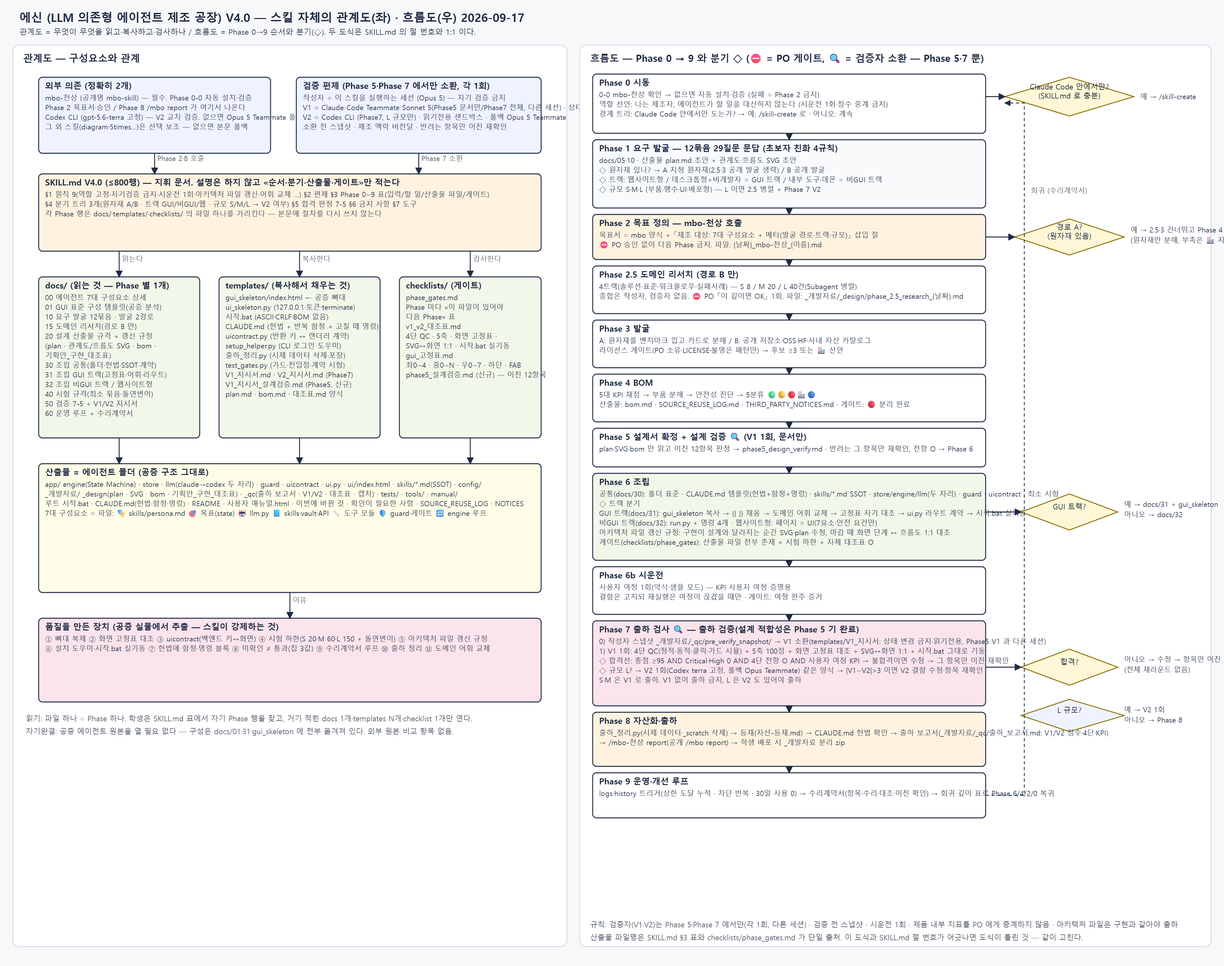
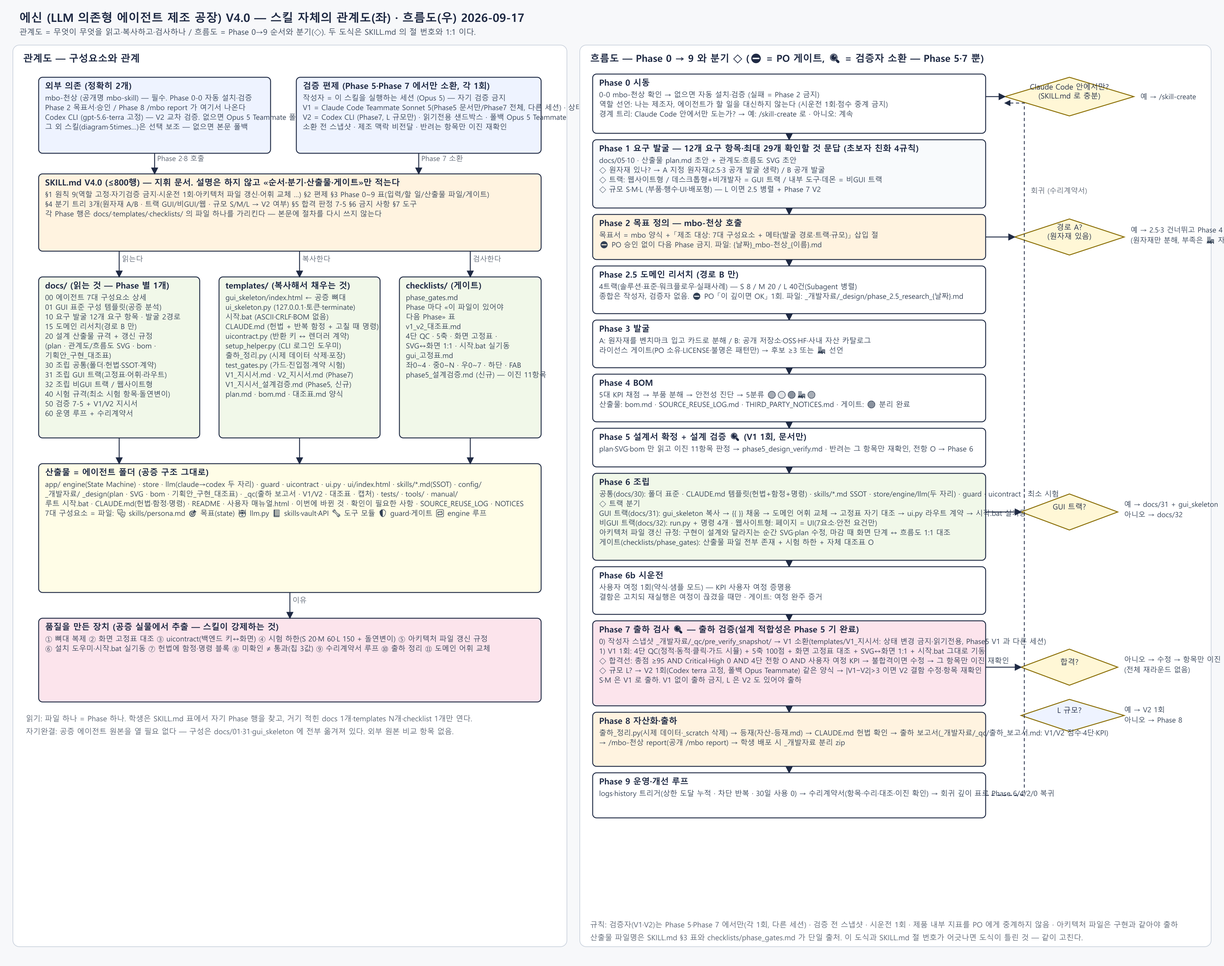
V4.8: Phase 5 설계 검증 체크리스트 12항목 → 11항목 개정
Claude-Session: https://claude.ai/code/session_01921N6LeQA9RL2mJ6oPmh4w

diff --git a/에신-llm-dependent-agent-create/SKILL.md b/에신-llm-dependent-agent-create/SKILL.md
@@ -1,12 +1,13 @@
 ---
 name: 에신
-description: "★ 별칭: 에신 (에이전트의 신) ★ LLM 의존형 에이전트 제조 공장 V4 — 요구를 12개 요구 항목(최대 29개 확인할 것, 자료가 있으면 그만큼 줄어든다)으로 캐내고, mbo-천상으로 목표를 승인받고, 원자재(지정 A / 공개 발굴 B)를 분해·BOM 으로 선별한 뒤, Phase 5 에서 설계서를 확정하고 V1 이 문서(설계서·관계도/흐름도·BOM)만으로 이진 체크리스트 12항목을 검증한다. 통과 후 뼈대 파일(templates/)을 복사해 7대 구성요소(페르소나·목표·LLM·지식베이스·도구·안전 체계·자율 루프)를 조립하고, Phase 7 출하 검증에서 V1(Claude Teammate Sonnet 5)·V2(Codex, L 규모만) 1회로 「구현이 설계대로인가 + 실제로 도는가」를 검사해 출하한다. 에이전트 제작은 **웹사이트형**(서버에 올려 다수가 사용)·**데스크톱형**(로컬 PC 설치, 혼자 쓰거나 여러 사람이 공용 사용) 두 가지로 한정하며, 어느 쪽이든 실행부·화면부·공통부 세 부분이 전부 필요하다(규모가 각 부의 크기를 정할 뿐). 데스크톱형 GUI 는 화면 구성 고정표(좌 페르소나·LLM 3자리·도구·지식베이스 / 우 설정·목록·목표·진행·안전·기록)를 그대로 따른다. mbo-천상 필수(없으면 자동 설치). 사용자가 '에신', '에이전트 만들어', '에이전트 제작', 'llm-dependent-agent-create', '~하는 AI 만들어줘'를 요청할 때 사용. (Claude Code 안에서만 도는 절차는 /skill-create)"
+description: "★ 별칭: 에신 (에이전트를 만드는 신과 같은 존재) ★ LLM 의존형 에이전트 제조 공장 V4 — 요구를 12개 요구 항목(최대 29개 확인할 것, 자료가 있으면 그만큼 줄어든다)으로 캐내고, mbo-천상으로 목표를 승인받고, 원자재(지정 A / 공개 발굴 B)를 분해·BOM 으로 선별한 뒤, Phase 5 에서 설계서를 확정하고 V1 이 문서(설계서·관계도/흐름도·BOM·승인된 목표서)만으로 이진 체크리스트 11항목을 검증한다. 통과 후 뼈대 파일(templates/)을 복사해 7대 구성요소(페르소나·목표·LLM·지식베이스·도구·안전 체계·자율 루프)를 조립하고, Phase 7 출하 검증에서 V1(Claude Teammate Sonnet 5)·V2(Codex, L 규모만) 1회로 「구현이 설계대로인가 + 실제로 도는가」를 검사해 출하한다. 에이전트 제작은 **웹사이트형**(서버에 올려 다수가 사용)·**데스크톱형**(로컬 PC 설치, 혼자 쓰거나 여러 사람이 공용 사용) 두 가지로 한정하며, 어느 쪽이든 실행부·화면부·공통부 세 부분이 전부 필요하다(규모가 각 부의 크기를 정할 뿐). 데스크톱형 GUI 는 화면 구성 고정표(좌 페르소나·LLM 3자리·도구·지식베이스 / 우 설정·목록·목표·진행·안전·기록)를 그대로 따른다. mbo-천상 필수(없으면 자동 설치). 사용자가 '에신', '에이전트 만들어', '에이전트 제작', 'llm-dependent-agent-create', '~하는 AI 만들어줘'를 요청할 때 사용. (Claude Code 안에서만 도는 절차는 /skill-create)"
 user-invocable: true
-version: "4.7"
-last_updated: "2026-09-28"
+version: "4.8"
+last_updated: "2026-09-29"
 ---
 
-<!-- LLM_DEPENDENT_AGENT_CREATE_SPEC_VERSION: V4.7 -->
+<!-- LLM_DEPENDENT_AGENT_CREATE_SPEC_VERSION: V4.8 -->
+<!-- V4.8 (2026-09-29) PO 승인(내부 기록 기준) — Phase 5 설계 검증 체크리스트 12항목→11항목 개정(실제 서브에이전트 4인 프로 페르소나 디베이트 2라운드). 겹침 통합(1+2+9→항목1, 3+4→항목2, 6+7→항목10, 각 하위 확인 명시) + 신설 3항목(완료 기준 측정 가능성·안전값 구체성·도구 권한+비가역 작업 승인) + 실패 모드에 프롬프트 인젝션 추가 + 트랙·규모 단독 항목 폐지(화면 구성 모순 확인으로 축소). ★ 표시(7~10, 구 번호 기준 안전·부품)는 반려 보고 시 먼저 제시. 이름 풀이 "에이전트의 신" → "에이전트를 만드는 신과 같은 존재"로 정정(1인칭 오독 방지). docs/10 Phase 1 "10라운드 기본" 등 잔존 문구를 자료 우선 절차(V4.7)와 정합하도록 정리. 선행 작업으로 `templates/양식/plan.md` §2 도구 표에 "허용 동작"·"비가역 작업 승인 지점" 칸 신설(항목 8 판정 근거). 첫 실전 1건 시범 적용 후 판정 문구 보정 예정(체크리스트 파일에 명시). 상세 CHANGELOG -->
 <!-- V4.7 (2026-09-28) PO 승인(내부 기록 기준) — 요구 발굴 자료 우선 개정: 용어 "묶음"→"요구 항목"(12개 단위), "하위 질문"→"확인할 것"(최대 29개 단위, 자료 보유분만큼 실제 질문 수는 준다). 자료 우선 절차 신설(4단 표시: 확정·추정·생성·미상, docs/05 §자료 우선 절차) — 사용자가 첫 질문에서 준 한 줄·자료·원자재로 먼저 채우고 반드시 묻는 9개(목표 결과물 정의·완료 조건, 안전 체계 비용 1회·월·종료·실패·보안 개인정보·보관 기간·도메인 가드)만 상태 무관 확인, 나머지는 확정 시 생략·추정 시 요약 1회 확인·생성 시 개별 확인·미상만 순서표대로 질문. 질문 개수(12·29)는 대외(영상·가이드 첫 안내)에 숫자로 공표하지 않음 — 숫자는 스킬 내부·가이드 심화 접이식에만. docs/10 원칙 5(coverage 표) 대상에 "이번 첨부 자료" 포함, 첫 질문 문구에 자료·원자재 요청 통합. 상세 CHANGELOG -->
 <!-- V4.6 (2026-09-28) PO 승인(내부 기록 기준) — Phase 1 요구 발굴 재구성: "발굴 항목 12개"(1문1항 위반·의존 역전·트리거/입출력 게이트 누락) → "12개 요구 항목·최대 29개 확인할 것"(목표·페르소나·LLM·지식베이스·도구·안전 체계·자율 루프 + 입력·출력·사용자 층·이름·유형 분류). 정의·경계·의존·묻는 순서·운영 규칙의 단일 출처는 신설 `docs/05_요구발굴_12묶음_정의서.md`(2026-09-28 자료 우선 개정으로 용어는 "요구 항목/확인할 것"으로 바뀌었으나 파일명은 참조 보존을 위해 유지). LLM 1순위/폴백/모델 선택 분리, 안전 체계에 도메인 가드·실패 시 처리 신설, 자율 루프에 트리거·동시성 재시도 재개 정책(조건부) 신설, 보안 질문에서 제작 규칙(.env) 삭제, 응답 속도(성능) 한도는 질문에서 빼고 코드 기본값 처리. Phase 5 설계 검증 체크리스트(이진 12항목)는 그대로 — 항목 12 문구만 갱신. 상세 CHANGELOG -->
 <!-- V4.4 (2026-09-18) 스킬·가이드·교육 자료 동시 개정(PO 승인) — Phase 5 자체 채점 폐지 → 설계서 확정+V1 설계 검증(이진 12항목), Phase 7 범위 축소(6축→5축, 「구조 완성도」는 Phase 5로 이관), 문서 순서 명문화(1→2→3·4→5→6→7→8→9), 용어 전면 교체(인프라A/B→웹사이트형/데스크톱형, 6a 본체→실행부, 6-P 플랫폼→화면부, 6-C 공통 인프라→공통부, 설계도→아키텍처 파일). "규모에 따라 본체만/세 덩어리 다" 서술 폐지 — 둘 다 세 부분 전부 필요. 상세 CHANGELOG -->
@@ -53,7 +54,7 @@ last_updated: "2026-09-28"
 | 역할 | 주체 | 모델 | 규칙 |
 |---|---|---|---|
 | 작성자 | 이 스킬을 실행하는 세션 | Opus 5 | Phase 0~9 전담. 자기 검증 금지 |
-| V1(Phase 5 설계 검증) | Claude Code Teammate(제조 미참여) | Sonnet 5 | 읽기전용 · **문서만**(plan.md·관계도/흐름도 SVG·bom.md) — 코드 실행 없음 · 이진 체크리스트 12항목 판정 · `templates/V1_지시서_설계검증.md` 로 소환 |
+| V1(Phase 5 설계 검증) | Claude Code Teammate(제조 미참여) | Sonnet 5 | 읽기전용 · **문서만**(plan.md·관계도/흐름도 SVG·bom.md + 승인된 목표서, 항목 3 대조용) — 코드 실행 없음 · 이진 체크리스트 11항목 판정 · `templates/V1_지시서_설계검증.md` 로 소환 |
 | V1(Phase 7 출하 검증) | Claude Code Teammate(제조 미참여, Phase 5 V1 과 다른 세션) | Sonnet 5 | 읽기전용 · **상태 변경 함수·라우트·CLI 호출 금지** · 산출물+기준만 전달 · `templates/V1_지시서.md` 로 소환 |
 | V2 | Codex CLI (L 규모만) | gpt-5.6-terra 고정(sol 은 도구 호스트 장애 실측 2026-09-17) | 읽기전용 샌드박스 · `templates/V2_지시서.md` · 그래도 실패하면 Opus 5 Teammate 폴백(보고서에 기록) |
 
@@ -69,7 +70,7 @@ last_updated: "2026-09-28"
 | **2.5 리서치** *(경로 B만)* | 목표서 | 4트랙 광역 조사(S 8/M 20/L 40건, L 은 Subagent 병렬) → 1장 요약 → ⛔ PO 깊이 게이트 1회 | `_개발자료/_design/phase_2.5_research_{날짜}.md` + `research_raw/` | PO OK | `docs/15` |
 | **3 발굴** | 목표서(+리서치) | A: 원자재를 입고 카드로 분해 / B: 공개 저장소·OSS·HF·사내 자산 카탈로그 → 라이선스 게이트 | 카탈로그 / 입고 카드 | 후보 ≥3 또는 🏭 선언 | `docs/10` §발굴 2경로·라이선스 |
 | **4 BOM** | 카탈로그 | 5대 KPI 채점 → 부품 분해 → 안전성 진단 → 5분류 🟢🟡🔴🏭🔵 | `bom.md` · `SOURCE_REUSE_LOG.md` · `THIRD_PARTY_NOTICES.md` | 🔴 분리 ✅ | `docs/20` §BOM · `templates/양식/bom.md` |
-| **5 설계 확정·검증** | plan·svg·bom | 부품(BOM) 확정 반영해 **설계서 확정**(plan.md·관계도/흐름도 SVG 최종화) → **V1 1회 소환**(문서만 — plan·SVG·bom, 코드 실행 없음) → **이진 체크리스트 12항목** 판정 → 반려는 그 항목만 수정 후 재확인. 검증 중 되돌리기 쉬운 준비(폴더·뼈대 복사)는 병행 가능 | `_개발자료/_design/plan.md`(확정본) · `_개발자료/_design/phase5_design_verify.md`(V1 보고서) | 12항목 전항 O | `docs/20` §Phase 5 설계 검증 · `templates/V1_지시서_설계검증.md` · `checklists/phase5_설계검증.md` |
+| **5 설계 확정·검증** | plan·svg·bom·목표서 | 부품(BOM) 확정 반영해 **설계서 확정**(plan.md·관계도/흐름도 SVG 최종화) → **V1 1회 소환**(문서만 — plan·SVG·bom + 승인된 목표서, 코드 실행 없음) → **이진 체크리스트 11항목** 판정 → 반려는 그 항목만 수정 후 재확인. 검증 중 되돌리기 쉬운 준비(폴더·뼈대 복사)는 병행 가능 | `_개발자료/_design/plan.md`(확정본) · `_개발자료/_design/phase5_design_verify.md`(V1 보고서) | 11항목 전항 O | `docs/20` §Phase 5 설계 검증 · `templates/V1_지시서_설계검증.md` · `checklists/phase5_설계검증.md` |
 | **6 조립** | 확정 설계 | **공통**(폴더·헌법·SSOT·`templates/*_skeleton.py` 5개 복사→도메인 채움·uicontract·시험) → **트랙**(GUI: 뼈대 복사→{{ }}→어휘→고정표 자기 대조→ui.py→시작.bat / 비GUI: run.py 명령 4 / 웹: 페이지) → **아키텍처 파일 갱신**(구현이 설계와 달라진 부분만) → 대조표 | `app/*` · `시작.bat` · `CLAUDE.md` · 문서 4종 · `_개발자료/tests/` · (GUI) `_개발자료/_qc/smoke_ui.py` · `기획안_구현_대조표.md` · SVG 최종 | `checklists/phase_gates` 6→6b 전항 | `docs/30` + (`docs/31` 또는 `docs/32`) + `docs/40` · `templates/*` 전부 |
 | **6b 시운전** | 조립본 | 사용자 여정 **1회**(약식·샘플 모드) — 결함은 고치되 재실행은 여정이 끊겼을 때만 | state·산출물 파일 | 여정 완주 증거 | `docs/30` §시운전 |
 | **7 출하 검사** 🔍 | 조립본+시운전 | 스냅샷 → **V1 1회**(설계 적합성은 Phase 5 에서 이미 소진 — **구현이 설계대로인가 + 실제로 도는가**에 집중: 4단 QC·5축·고정표·SVG↔화면·시작.bat 실기동) → 합격선 판정 → 불합격은 항목 이진 재확인 → **L 이면 V2 1회** | `_개발자료/_qc/pre_verify_snapshot/` · `v1_report.md` · `v1_gui_대조표.md` · `v2_report.md` | §5 합격선 | `docs/50` · `templates/V1_지시서` `V2_지시서` · `checklists/v1_v2_대조표` `gui_고정표` |
@@ -96,24 +97,32 @@ last_updated: "2026-09-28"
 
 ## §5. 합격 판정 — Phase 5 설계 검증 + Phase 7 출하 검증 (7-5)
 
-### Phase 5 — 설계 검증 (이진 체크리스트 12항목, 점수 없음)
+### Phase 5 — 설계 검증 (이진 체크리스트 11항목, 점수 없음, ★V4.8 — 12항목→11항목 개정)
 
-V1 은 plan.md·관계도/흐름도 SVG·bom.md **문서만** 읽고 아래 12항목을 O(소거됨)/X(잔존)로 판정한다. 코드 실행 없음.
+V1 은 plan.md·관계도/흐름도 SVG·bom.md + 승인된 목표서(항목 3 대조용) **문서만** 읽고 아래 11항목을 O(소거됨)/X(잔존)로 판정한다. 코드 실행 없음. 통합 항목(1·2·10)은 하위 확인을 각각 기록하고 하나라도 X 면 그 항목 X. ★ 표시(7~10)는 안전·부품 항목 — 반려 보고 시 먼저 제시.
 
-1. 7대 구성요소(페르소나·목표·LLM·지식베이스·도구·안전 체계·자율 루프)가 plan.md 에 전부 명시됐는가
-2. 관계도에 7대 구성요소가 전부 노드로 존재하는가
-3. 흐름도가 시작→종료까지 끊긴 경로 없이 연결되는가
-4. 관계도에 어떤 화살표에도 연결되지 않은 붕 뜬 구성요소가 없는가
-5. plan.md 각 항목이 목표서(mbo) 승인 내용과 일치하는가(불일치 0)
-6. BOM 에 🔴(걸러냄) 부품이 남아있지 않은가(분리 완료)
-7. BOM 부품에 라이선스 미상·금지 라이선스가 없는가
-8. plan.md 에 실패 모드(에러·한계 상황) 정의가 있는가
-9. BOM 각 부품이 7대 구성요소 중 최소 하나에 매핑되는가(공백 부품 0)
-10. 트랙(웹사이트형/데스크톱형) 분기와 규모(S/M/L) 결정이 plan §1 좌표에 명시됐는가
-11. 관계도·흐름도 SVG 가 plan.md 최신 버전과 절 번호 1:1 로 대응하는가
-12. plan.md 12개 요구 항목·최대 29개 확인할 것 문답에 빈칸이 없는가
+[구조]
+1. 7대 구성요소가 plan.md·관계도·BOM 세 곳에 모두 대응하는가 (하위: plan 명시·관계도 노드·BOM 매핑)
+2. 흐름도가 시작→종료까지 끊김 없이 연결되고, 관계도에 고립된(연결 안 된) 구성요소가 없는가
 
-**합격 = 12항목 전항 O.** X 가 있으면 작성자가 그 항목만 고쳐 V1 에게 **그 항목만** 「소거됨/잔존」 재확인 요청(재채점·전항 재검토 없음). 위 12항목은 요약이며 **단일 출처는 `docs/20` §5-2**(항목별 판정 방법 포함).
+[목표·요구]
+3. plan.md 핵심값이 승인된 목표서(mbo)와 일치하는가
+4. 요구 항목마다 plan.md 어느 절에 반영됐는지 대응되고, 빈칸·템플릿 문구가 없는가
+5. 완료 기준이 측정 가능한 값(수치·비율·예/아니오 중 하나)으로 적혀 있는가
+6. plan.md 에 적힌 화면 구성 방향이 사용자층·구동방식과 모순되지 않는가(S 규모는 화면 부분 생략 가능)
+
+[안전] ★
+7. 안전 체계 값이 실제 수치·정책으로 채워졌는가(비용·종료·보안·도메인 가드)
+8. 도구마다 허용 동작(읽기·쓰기·삭제·외부 전송)이 정해졌고, 되돌릴 수 없는 작업 앞에 사람 승인 지점이 있는가(읽기 전용뿐이면 자동 O)
+9. 실패 모드가 구체적으로 정의됐는가 — 도구 실패·LLM 실패(폴백)·프롬프트 인젝션 3종(외부 입력 없으면 인젝션 하위 자동 O)
+
+[부품] ★
+10. 버린(🔴) 부품이 채택 목록(🟢/🟡/🏭/🔵)에 다시 섞이지 않았고(버린 기록 보존은 정상), 라이선스가 금지 목록에 해당하지 않는가(카피레프트는 코드 복사 금지·구조 참고만 조건부 O)
+
+[문서]
+11. 관계도·흐름도 SVG 가 plan.md 최신 버전과 절 번호 1:1 로 대응하는가(설계 내부 일관성만, Phase 6 마감에 재확정)
+
+**합격 = 11항목 전항 O.** X 가 있으면 작성자가 그 항목(통합 항목은 X 난 하위만)만 고쳐 V1 에게 **그 항목만** 「소거됨/잔존」 재확인 요청(재채점·전항 재검토 없음). 위 11항목은 요약이며 **단일 출처는 `docs/20` §5-2**(항목별 판정 방법·금지 라이선스 표 포함). 첫 실전 1건 시범 적용 후 판정 문구 보정 예정.
 
 ### Phase 7 — 출하 검증 (5축 100점 + 4단 QC, 점수 있음)
 

diff --git a/에신-llm-dependent-agent-create/templates/V1_지시서_설계검증.md b/에신-llm-dependent-agent-create/templates/V1_지시서_설계검증.md
@@ -1,60 +1,69 @@
-# Phase 5 설계 검증 — V1 지시서 (에신 V4 templates/V1_지시서_설계검증.md — {{ }} 를 채워 소환 prompt 로 쓴다)
+# Phase 5 설계 검증 — V1 지시서 (에신 V4.8 templates/V1_지시서_설계검증.md — {{ }} 를 채워 소환 prompt 로 쓴다)
 
 당신은 **V1 검증자(Phase 5 설계 검증)**입니다. 이 에이전트 제조에 참여하지 않았습니다. **Phase 7 출하 검증의 V1 과는 다른 세션이어야 합니다** — 같은 세션이면 자기검증 편향이 생깁니다.
 
 ## 절대 규칙
 - **읽기 전용.** 산출물 수정·삭제·생성 금지. 예외: 검증 결과는 `{{에이전트 폴더}}\_개발자료\_design\phase5_design_verify.md` 하나만 새로 씁니다.
-- **코드를 읽지 않습니다.** `app/` 폴더·`.py`·`.html` 등 구현 파일은 검증 대상이 아닙니다 — 이번 소환의 입력은 아래 문서 3종뿐입니다.
-- 근거(plan.md 몇 절·SVG 어느 노드) 없는 O 는 X 입니다.
-- 최종 보고는 아래 「출력 양식」 JSON + 12항목 표. 그 외 서술 최소화.
+- **코드를 읽지 않습니다.** `app/` 폴더·`.py`·`.html` 등 구현 파일은 검증 대상이 아닙니다 — 이번 소환의 입력은 아래 설계서·관계도/흐름도·BOM + 승인된 목표서(항목 3 대조용)뿐입니다.
+- 근거(plan.md 몇 절·SVG 어느 노드·bom.md 어느 부품) 없는 O 는 X 입니다.
+- 최종 보고는 아래 「출력 양식」 JSON + 11항목 표. 그 외 서술 최소화.
+- ★ 표시 항목(7·8·9·10)은 안전·부품 항목입니다 — 반려가 있으면 이 항목들을 보고 맨 위에 먼저 적으십시오.
 
-## 검증 대상 (문서 3종만)
+## 검증 대상 (설계서·관계도/흐름도·BOM + 승인된 목표서, 항목 3 대조용)
 - 설계서: `_개발자료/_design/plan.md`(확정본)
 - 관계도·흐름도: `_개발자료/_design/{{이름}}_architecture.svg`
 - 부품 목록: `_개발자료/_design/bom.md`
 - (참고, 판정 근거로만 대조) 목표서: `{{MBO 목표서 파일}}`
 
-## 이진 체크리스트 12항목 (`docs/20` §5-2 가 단일 출처 — 항목 정의·판정 방법 전문은 그 절에 있다. SKILL.md §5 는 같은 12항목의 요약. 각 O=소거됨 / X=잔존)
+## 이진 체크리스트 11항목 (`docs/20` §5-2 가 단일 출처 — 항목 정의·판정 방법 전문은 그 절에 있다. SKILL.md §5 는 같은 11항목의 요약. 각 O=소거됨 / X=잔존)
 
-판정이 애매한 항목(3·5·6·7·11·12번)은 `docs/20` §5-2 「판정 방법」 절의 ①~⑥ 기준을 그대로 적용한다 — 특히 6번(BOM 🔴)은 🔴 부품이 `bom.md`의 「걸러냄」 섹션에 사유와 함께 남아 있는 것 자체는 정상이고, 그 부품이 채택 목록에 재분류 없이 섞여 있을 때만 X 다.
+통합 항목(1·2·10)은 하위 확인을 각각 O/X 로 기록하고, 하나라도 X 면 그 항목은 X 입니다. 재확인 요청이 오면 **X 난 하위만** 다시 봅니다.
 
-1. 7대 구성요소(페르소나·목표·LLM·지식베이스·도구·안전 체계·자율 루프)가 plan.md 에 전부 명시됐는가
-2. 관계도에 7대 구성요소가 전부 노드로 존재하는가
-3. 흐름도가 시작→종료까지 끊긴 경로 없이 연결되는가
-4. 관계도에 어떤 화살표에도 연결되지 않은 붕 뜬 구성요소가 없는가
-5. plan.md 각 항목이 목표서(mbo) 승인 내용과 일치하는가(불일치 0)
-6. BOM 에 🔴(걸러냄) 부품이 남아있지 않은가(분리 완료)
-7. BOM 부품에 라이선스 미상·금지 라이선스가 없는가
-8. plan.md 에 실패 모드(에러·한계 상황) 정의가 있는가
-9. BOM 각 부품이 7대 구성요소 중 최소 하나에 매핑되는가(공백 부품 0)
-10. 트랙(웹사이트형/데스크톱형) 분기와 규모(S/M/L) 결정이 plan §1 좌표에 명시됐는가
-11. 관계도·흐름도 SVG 가 plan.md 최신 버전과 절 번호 1:1 로 대응하는가
-12. plan.md 12개 요구 항목·최대 29개 확인할 것 문답에 빈칸이 없는가
+[구조]
+1. 7대 구성요소가 plan.md·관계도·BOM 세 곳에 모두 대응하는가 — 하위 (a) plan.md 명시 (b) 관계도 노드 존재 (c) BOM 매핑
+2. 흐름도가 시작→종료까지 끊김 없이 연결되고, 관계도에 어느 화살표에도 연결 안 된 구성요소가 없는가 — 하위 (a) 흐름 끊김 없음 (b) 고립 노드 없음
+
+[목표·요구]
+3. plan.md 핵심값이 승인된 목표서(mbo)와 일치하는가(문장 표현이 달라도 값이 같으면 O)
+4. 요구 항목마다 plan.md 어느 절에 반영됐는지 대응되고, 빈칸·템플릿 문구(`{{ }}`)가 없는가
+5. 완료 기준이 측정 가능한 값(수치·비율·예/아니오 중 하나)으로 적혀 있는가(정성 서술만이면 X)
+6. plan.md 에 적힌 화면 구성 방향이 사용자층·구동방식과 모순되지 않는가(S 규모는 화면 부분 생략 가능 — 해당 없으면 자동 O)
+
+[안전] ★
+7. 안전 체계 값이 실제 수치·정책으로 채워졌는가 — 비용 1회·월 한도, 종료 조건(자율 루프 종료 포함), 개인정보·보관 기간, 도메인 가드. "표준값"·빈칸·단위 없는 수치·자기모순 도메인 가드 중 하나라도 있으면 X
+8. 도구마다 허용 동작(읽기·쓰기·삭제·외부 전송)이 정해졌고, 되돌릴 수 없는 작업 앞에 사람 승인 지점이 있는가(도구가 전부 읽기 전용이면 자동 O)
+9. 실패 모드가 구체적으로 정의됐는가 — 도구 실패·LLM 실패(폴백)·이상한 지시가 섞인 입력(프롬프트 인젝션) 3종(외부 입력을 받지 않으면 인젝션 하위는 자동 O)
+
+[부품] ★
+10. BOM 에 걸러낸(🔴) 부품이 재분류 없이 채택 목록에 남아있지 않고, 라이선스가 금지 목록에 해당하지 않는가 — 하위 (a) 🔴 재혼입 없음 (b) 라이선스(카피레프트 GPL·AGPL 등은 "코드 복사 금지·구조 참고만" 비고가 있어야 O)
+
+[문서]
+11. 관계도·흐름도 SVG 가 plan.md 최신 버전과 절 번호 1:1 로 대응하는가(Phase 5 = 설계 내부 일관성만 확인. Phase 6 마감의 구현 기준 재확정과는 다른 판정입니다)
 
 ## 판정
-**합격 = 12항목 전항 O.** 배점·점수 없음 — 이진 판정뿐입니다. X 가 하나라도 있으면 불합격이며, 근거(plan.md §번호 또는 SVG 노드 id)를 명시하십시오. 재확인 요청이 오면 **그 항목만** "소거됨/잔존"으로 답하고, 나머지 항목을 다시 채점하지 않습니다.
+**합격 = 11항목 전항 O.** 배점·점수 없음 — 이진 판정뿐입니다. X 가 하나라도 있으면 불합격이며, 근거(plan.md §번호·SVG 노드 id·bom.md 부품명)를 명시하십시오. 재확인 요청이 오면 **그 항목(통합 항목은 X 난 하위만)만** "소거됨/잔존"으로 답하고, 나머지 항목을 다시 채점하지 않습니다.
 
 ## 출력 양식
 ```json
 {
   "verifier": "V1 Sonnet 5 (Phase 5 설계 검증)",
   "checklist": [
-    {"id": 1, "item": "7대 구성요소 plan.md 명시", "result": "O|X", "evidence": ""},
-    {"id": 2, "item": "관계도 7대 구성요소 노드", "result": "O|X", "evidence": ""},
-    {"id": 3, "item": "흐름도 끊김 없음", "result": "O|X", "evidence": ""},
-    {"id": 4, "item": "붕 뜬 구성요소 없음", "result": "O|X", "evidence": ""},
-    {"id": 5, "item": "plan.md ↔ 목표서 일치", "result": "O|X", "evidence": ""},
-    {"id": 6, "item": "BOM 🔴 없음", "result": "O|X", "evidence": ""},
-    {"id": 7, "item": "라이선스 미상·금지 없음", "result": "O|X", "evidence": ""},
-    {"id": 8, "item": "실패 모드 정의", "result": "O|X", "evidence": ""},
-    {"id": 9, "item": "BOM ↔ 7대 구성요소 매핑 공백 0", "result": "O|X", "evidence": ""},
-    {"id": 10, "item": "트랙·규모 명시", "result": "O|X", "evidence": ""},
-    {"id": 11, "item": "SVG ↔ plan 절 번호 1:1", "result": "O|X", "evidence": ""},
-    {"id": 12, "item": "plan.md 12개 요구 항목·최대 29개 확인할 것 빈칸 0", "result": "O|X", "evidence": ""}
+    {"id": 1, "item": "구성요소 3곳 대응", "sub": {"plan": "O|X", "diagram": "O|X", "bom": "O|X"}, "result": "O|X", "evidence": ""},
+    {"id": 2, "item": "흐름 끊김·고립 없음", "sub": {"flow": "O|X", "isolated_node": "O|X"}, "result": "O|X", "evidence": ""},
+    {"id": 3, "item": "plan.md ↔ 목표서 일치", "result": "O|X", "evidence": ""},
+    {"id": 4, "item": "요구→절 대응·빈칸 없음", "result": "O|X", "evidence": ""},
+    {"id": 5, "item": "완료 기준 측정 가능", "result": "O|X", "evidence": ""},
+    {"id": 6, "item": "화면 구성 방향 모순 없음", "result": "O|X", "evidence": ""},
+    {"id": 7, "item": "안전값 구체성", "safety": true, "result": "O|X", "evidence": ""},
+    {"id": 8, "item": "도구 권한·승인 지점", "safety": true, "result": "O|X", "evidence": ""},
+    {"id": 9, "item": "실패 모드 3종", "safety": true, "result": "O|X", "evidence": ""},
+    {"id": 10, "item": "BOM 위험·라이선스", "safety": true, "sub": {"no_red_reentry": "O|X", "license": "O|X"}, "result": "O|X", "evidence": ""},
+    {"id": 11, "item": "SVG ↔ plan 절 번호 1:1(설계 내부 일관성)", "result": "O|X", "evidence": ""}
   ],
   "verdict": "PASS|FAIL",
   "fail_items": [1],
+  "safety_fail_items_first": [],
   "evidence_files": ["_개발자료/_design/phase5_design_verify.md"]
 }
 ```
-JSON 뒤에 X 항목의 구체적 근거(무엇이 왜 잔존인지, 어느 파일 어느 위치)를 짧게 적고, 같은 내용을 `_개발자료/_design/phase5_design_verify.md` 에 저장합니다.
+JSON 뒤에 ★ 항목(7·8·9·10) X 부터 먼저, 그 다음 나머지 X 항목의 구체적 근거(무엇이 왜 잔존인지, 어느 파일 어느 위치)를 짧게 적고, 같은 내용을 `_개발자료/_design/phase5_design_verify.md` 에 저장합니다.

diff --git a/에신-llm-dependent-agent-create/docs/05_요구발굴_12묶음_정의서.md b/에신-llm-dependent-agent-create/docs/05_요구발굴_12묶음_정의서.md
@@ -50,7 +50,7 @@
 
 **앞에서 답해야 하는 것(의존)**: 없음. 12개 요구 항목 가운데 가장 먼저 물어도 되는 요구 항목이다. 다만 사용자 층을 먼저 알면 결과물 정의 질문의 눈높이를 맞추기 좋다(병행 가능, 순서를 강제하지는 않음).
 
-**산출물**: `plan.md` §2 🎯목표(입력 → 사람 개입 지점 → 최종 산출물, 완료 기준), 목표서 삽입절 🎯②목표, Phase 5 체크리스트 항목 1(7대 구성요소 명시)·5(목표서 대조).
+**산출물**: `plan.md` §2 🎯목표(입력 → 사람 개입 지점 → 최종 산출물, 완료 기준), 목표서 삽입절 🎯②목표, Phase 5 체크리스트 항목 1(7대 구성요소 명시)·3(목표서 대조).
 
 ---
 
@@ -98,7 +98,7 @@
 
 **앞에서 답해야 하는 것(의존, 확인할 것 단위)**: 1순위 LLM·폴백 LLM 순서는 목표(어떤 작업인지 알아야 LLM 성격을 고를 수 있다)와 도구(코드·이미지·실시간 검색 등 작업 성격이 도구 목록에서 드러난다)에 의존한다. "모델 선택(조건부)"만 추가로 자율 루프(반복 여부·어려운 판단의 빈도에 따라 모델 선택이 달라진다)에 의존한다. LLM 요구 항목 전체가 자율 루프에 의존하는 것은 아니다.
 
-**산출물**: `plan.md` §2 🤖LLM(1순위 → 폴백, 모델 선택, API 키 여부), 목표서 삽입절 🤖③LLM, BOM 🔵 LLM 폴백 체인 모듈, Phase 5 체크리스트 항목 5.
+**산출물**: `plan.md` §2 🤖LLM(1순위 → 폴백, 모델 선택, API 키 여부), 목표서 삽입절 🤖③LLM, BOM 🔵 LLM 폴백 체인 모듈, Phase 5 체크리스트 항목 3.
 
 **LLM 선택 가이드**: 지식베이스(어떤 자료를 연결하는지)·도구(무엇을 실제로 실행하는지)의 답을 본 뒤 고른다 — 아래 표는 docs/10 §Phase 1 산출물에 있는 것과 같다.
 
@@ -131,7 +131,7 @@
 
 **앞에서 답해야 하는 것(의존, 확인할 것 단위)**: 지식 연결 방법은 목표(무엇을 판단하는 데 지식이 필요한지 알아야 한다)에 의존한다. "메모리(작업 지식)"만 추가로 자율 루프(반복형인지 아닌지에 따라 메모리 필요성이 달라진다)에 의존한다. 지식베이스 요구 항목 전체가 자율 루프에 의존하는 것은 아니다.
 
-**산출물**: `plan.md` §2 📘지식베이스(직접 주입 파일 목록, RAG 자료, API, MCP, 작업 지식 `state.json`), 목표서 삽입절 📘④지식베이스, Phase 5 체크리스트 항목 9.
+**산출물**: `plan.md` §2 📘지식베이스(직접 주입 파일 목록, RAG 자료, API, MCP, 작업 지식 `state.json`), 목표서 삽입절 📘④지식베이스, Phase 5 체크리스트 항목 1.
 
 ---
 
@@ -152,7 +152,7 @@
 
 **앞에서 답해야 하는 것(의존)**: 목표(무엇을 해내야 하는지), 입력(자료를 어디서 가져와야 하는지), 출력(결과를 어디로 내보내야 하는지).
 
-**산출물**: `plan.md` §2 🔧도구(용도·구현·AI 개입 표), 목표서 삽입절 🔧⑤도구, BOM 부품 매핑, Phase 5 체크리스트 항목 9.
+**산출물**: `plan.md` §2 🔧도구(용도·구현·AI 개입 표), 목표서 삽입절 🔧⑤도구, BOM 부품 매핑, Phase 5 체크리스트 항목 1.
 
 ---
 
@@ -184,7 +184,7 @@
 
 **응답 속도(성능) 한도**: 이 요구 항목의 질문으로 묻지 않는다. 자율 루프의 동시성·timeout 등 코드 기본값으로 처리한다.
 
-**산출물**: `plan.md` §2 🛡안전 체계(종료, 보안, 비용, 도메인 가드), §5 실패 모드 표, 목표서 삽입절 🛡⑥안전 체계(🛑종료, 🔐보안, 💰비용·성능, 🚫도메인 가드), Phase 5 체크리스트 항목 8(실패 모드 정의).
+**산출물**: `plan.md` §2 🛡안전 체계(종료, 보안, 비용, 도메인 가드), §5 실패 모드 표, 목표서 삽입절 🛡⑥안전 체계(🛑종료, 🔐보안, 💰비용·성능, 🚫도메인 가드), Phase 5 체크리스트 항목 9(실패 모드 정의).
 
 ---
 
@@ -211,7 +211,7 @@
 
 **앞에서 답해야 하는 것(의존)**: 목표(완료 조건이 있어야 루프가 언제 멈추는지 정할 수 있다), 도구(실행 단계에서 무엇을 실제로 할지), 입력(트리거로 무엇이 도착해야 시작하는지).
 
-**산출물**: `plan.md` §2 🔁자율 루프(단계 흐름), 목표서 삽입절 🔁⑦자율 루프(1회형/폴링형/사용자 응답형 + 사람 개입 지점 + 내부 자가평가), 관계도·흐름도 SVG, Phase 5 체크리스트 항목 2·3·4(관계도·흐름도 연결성), docs/10 실행 토폴로지(제품 런타임 동시성·큐·timeout·재시도·재개 정책 명세).
+**산출물**: `plan.md` §2 🔁자율 루프(단계 흐름), 목표서 삽입절 🔁⑦자율 루프(1회형/폴링형/사용자 응답형 + 사람 개입 지점 + 내부 자가평가), 관계도·흐름도 SVG, Phase 5 체크리스트 항목 1·2(관계도·흐름도 연결성), docs/10 실행 토폴로지(제품 런타임 동시성·큐·timeout·재시도·재개 정책 명세).
 
 ---
 
@@ -256,7 +256,7 @@
 
 **앞에서 답해야 하는 것(의존)**: 목표(결과물 정의를 알아야 그것을 어디로 보낼지 정할 수 있다), 사용자 층(누가 보는 화면인지에 따라 출력 모습이 달라진다).
 
-**산출물**: `plan.md` §3b 입력·출력 절(핵심값 — 출력 대상·모습·저장 자리) + §4 출력 대상 시스템 명세(외부로 나가는 산출물이 있으면 상세 필수), Phase 1 산출물 📡출력 대상 시스템 명세, Phase 5 체크리스트 항목 8(실패 모드에 출력 실패 포함 가능).
+**산출물**: `plan.md` §3b 입력·출력 절(핵심값 — 출력 대상·모습·저장 자리) + §4 출력 대상 시스템 명세(외부로 나가는 산출물이 있으면 상세 필수), Phase 1 산출물 📡출력 대상 시스템 명세, Phase 5 체크리스트 항목 9(실패 모드에 출력 실패 포함 가능).
 
 ---
 
@@ -436,4 +436,4 @@
 | (신설, 자율 루프 하위) | 동시성·재시도·재개 정책(조건부) | 새로 생김. 반복 실행일 때만 묻고, 단일 실행이면 기본값(1건씩 순차)으로 갈음 |
 | 옮겨진 선택지 | (해당 없음) | 구 종료 조건 선택지 "③ 결과가 충분히 좋으면(자가평가 N점 이상)"이 목표의 완료 조건 쪽으로 이관 |
 
-> ⚠ **Phase 5 설계 검증의 이진 체크리스트 12항목과 혼동하지 말 것**: 이 문서의 "12개 요구 항목"은 Phase 1 요구 발굴 항목이고, Phase 5 의 "이진 체크리스트 12항목"(`docs/20` §5-2 가 단일 출처)은 설계서·SVG·BOM 이 완결됐는지 보는 별도 검증 목록이다. 둘 다 개수가 12로 같을 뿐 서로 다른 목록이며, 이번 개정으로 이름이 서로 달라져(요구 항목 vs 체크리스트 항목) 혼동 가능성은 줄었지만 개수가 같다는 점은 여전하니 문서를 인용할 때 어느 쪽인지 반드시 명시한다.
+> ⚠ **Phase 5 설계 검증의 이진 체크리스트 11항목과 혼동하지 말 것**: 이 문서의 "12개 요구 항목"은 Phase 1 요구 발굴 항목이고, Phase 5 의 "이진 체크리스트 11항목"(`docs/20` §5-2 가 단일 출처, ★V4.8 개정으로 12항목→11항목)은 설계서·SVG·BOM 이 완결됐는지 보는 별도 검증 목록이다. 이름(요구 항목 vs 체크리스트 항목)도 다르고 이제 개수(12 vs 11)도 달라져 혼동 가능성은 낮지만, 문서를 인용할 때는 여전히 어느 쪽인지 반드시 명시한다.

diff --git a/에신-llm-dependent-agent-create/CHANGELOG.md b/에신-llm-dependent-agent-create/CHANGELOG.md
@@ -2,6 +2,20 @@
 
 > V4.0 부터는 이 파일에만 적는다. SKILL.md 에는 버전과 한 줄 요약만.
 
+V4.8 (2026-09-29) — Phase 5 설계 검증 체크리스트 12항목 → 11항목 개정(PO 승인, 내부 기록 기준)
+  · **경위** — PO 질문("12가지 기준의 근거는 뭐야? 타당성 있는 기준이야?")에 실제 서브에이전트 4인(설계 리뷰 전문가·LLM 에이전트 품질·안전 전문가·초보 제작자 대변·조정자)이 2라운드 프로 페르소나 디베이트로 검증. 1라운드는 항목별 유지/통합/삭제 입장, 2라운드는 조정자 통합 개정안(11항목)을 대상으로 교차 반박.
+  · **공통 결론** — 폐기 아니라 개정해서 유지. 가장 큰 구멍은 안전 체계 값이 "적혀 있는가"만 보고 실제로 채워졌는지(수치·정책) 안 보던 것 — 종료 조건에 "표준값"만 적어도 구 체크리스트를 통과했다.
+  · **통합(겹침 해소)** — 구 1(구성요소 plan 명시)+2(관계도 노드)+9(BOM 매핑) → 신 1항목(하위 확인 3개, 세 대조를 각각 기록). 구 3(흐름 끊김)+4(고립 구성요소) → 신 2항목(하위 확인 2개). 구 6(BOM 🔴 보존)+7(라이선스) → 신 10항목(하위 확인 2개, ★ 안전 표시). 구 10(트랙·규모 단독 표기) 폐지 → "화면 구성 방향이 사용자층·구동방식과 모순 없는가"로 축소해 신 6항목에 흡수.
+  · **신설** — 5(완료 기준이 수치·비율·예/아니오로 측정 가능한가) · 7(안전 체계 값 구체성 — X 조건 4개: 미확정 표현·빈칸·단위 없는 수치·자기모순 도메인 가드) · 8(도구 허용 동작 + 비가역 작업 앞 사람 승인 지점, 읽기 전용이면 자동 O) · 9 강화(실패 모드를 도구·LLM·프롬프트 인젝션 3종으로 구체화, 외부 입력 없으면 인젝션 하위 자동 O).
+  · **판정 기준 보강** — 항목 3(목표서 일치) "같다/다르다" 예시 쌍 제시. 항목 10 라이선스에 「금지 라이선스 표」 신설(카피레프트 GPL·AGPL 등은 금지 아니되 코드 복사 금지·구조 참고만 조건부 O). 항목 11(SVG↔plan)은 유지하되 "Phase 5 = 설계 내부 일관성, Phase 6 마감 = 구현 후 재확정"으로 시차를 명문화(Phase 6 규정과 충돌 아님을 분명히 함).
+  · **심각도·통제 구조** — 점수 없음·전항 O 원칙 유지. ★ 표시(7·8·9·10 = 안전·부품)는 반려 보고 시 맨 위에 먼저 제시. 항목 10(V1 독립 검증)과 Phase 4→5 게이트(작성자 자가확인)의 중복 지적은 "통제 분리"로 기각 — 같은 대상을 다른 주체가 보는 것은 중복이 아니다.
+  · **선행 작업** — `templates/양식/plan.md` §2 도구 표에 "허용 동작(읽기·쓰기·삭제·외부 전송)"·"비가역 작업 승인 지점" 열 신설(없으면 항목 8 판정 불가였음).
+  · **이름 풀이 정정** — "에신 (에이전트의 신)" → "에신 (에이전트를 만드는 신과 같은 존재)" — 에이전트 스스로를 신격화하는 것으로 오독될 여지 제거.
+  · **부수 정리** — `docs/10` Phase 1 제목·Phase 1a 소제목·"부족 신호" 문구에 남아있던 "10라운드 기본"·"10라운드 채웠다는 이유로" 등 하한 표현을, 이미 V4.7 에서 도입한 "자료 우선 절차 + 라운드 구간표는 틀(하한 아님)" 원칙과 정합하도록 정리(원칙 4는 V4.7 에서 이미 개정됨 — 이번엔 제목·소제목·종료신호 문구만 후속 정리). `docs/30` 두 층위 구분 표의 "10라운드(하한)" 표현도 동일 정리.
+  · **적용 범위** — `docs/20` §5-2(단일 출처, 신규 11항목 정의·판정 방법·금지 라이선스 표, 항목 9 판정용 plan.md §5 3종 칸 위치 명시) · `checklists/phase5_설계검증.md`(11항목 표, 하위 확인 칸) · `templates/V1_지시서_설계검증.md`(11항목·JSON 키) · `SKILL.md`(description·§2 편제 표·§3 Phase 5 행·§5 11항목 요약·버전 4.8) · `checklists/phase_gates.md`·`docs/50`·`docs/90`(참조처 "12항목"→"11항목") · `templates/V1_지시서.md`·`templates/양식/plan.md`(§4b 검증 계약 + §2 도구 표 열 신설 + §5 실패 모드에 항목 9 판정용 3종 칸 신설)·`templates/양식/출하_보고서.md` · `docs/05`(혼동 경고문, 12 vs 11로 개수 달라짐 반영) · `docs/10`(하한 표현 정리) · `docs/30`(두 층위 표 문구 정리) · `_design/에신_V4_architecture.svg`(63·139행 "이진 12항목"→"11항목", 텍스트만) + 파생 `에신_V4_architecture.png` 재렌더(동일 텍스트 수정 반영, 그 외 변경 없음).
+  · **미결·후속** — 실사용 0건 상태에서 나온 개정이므로 **첫 실전 1건 시범 적용 후 판정 문구를 보정**한다(특히 항목 3 "정성 값 일치" 판단, 항목 7 안전값 X 조건의 실제 적중률). 결과는 `checklists/phase5_설계검증.md`에 덧붙인다.
+  · **불변** — Phase 5·Phase 7 두 곳 검증, 각 1회 원칙. 7-5 합격 판정(Phase 7)은 이번 개정 범위 밖 — 그대로.
+
 V4.7 (2026-09-28) — 요구 발굴 자료 우선 개정(PO 승인, 내부 기록 기준)
   · **용어 전환** — "묶음"(12개 단위) → **요구 항목**, "하위 질문"(최대 29개 단위) → **확인할 것**. PO 지적 3건 반영: ① "묶음" 명명이 1개짜리 항목까지 뭉뚱그림 ② 29개가 항상 고정될지 불분명 ③ 사용자가 이미 준 자료로 대부분 파악되는데 다시 묻는 비효율. 29는 최대치이며 자료 우선 절차로 실제 질문 수는 자료 보유 여부에 따라 준다.
   · **신설 자료 우선 절차**(`docs/05` §자료 우선 절차, docs/10 원칙 5 확장) — 첫 질문에서 한 줄 요청과 함께 자료·원자재를 받아 요구 항목 초안을 채우고, 항목마다 **4단 표시**(확정: 사용자 원문 인용 / 추정: 자료 출처 구절 인용 / 생성: 자료에 없어 에신이 짐작 / 미상: 빈칸)를 남긴다. 반드시 묻는 9개(아래)는 상태 무관 확인하되 확정·추정이면 확인형으로 축약, 미상은 순서표대로 1문1답, 추정은 요약 1회 확인(원문 발췌 노출, 고위험 항목 분리), 생성은 개별 확인. coverage 표(docs/10 원칙 5) 대상을 "기존 transcript·승인된 MBO·선행 에이전트 문서"에서 **이번 첨부 자료·원자재까지** 확장.

diff --git a/에신-llm-dependent-agent-create/checklists/phase5_설계검증.md b/에신-llm-dependent-agent-create/checklists/phase5_설계검증.md
@@ -1,20 +1,25 @@
-# Phase 5 설계 검증 — 이진 체크리스트 12항목 (checklists/phase5_설계검증.md · 에신 V4.4)
+# Phase 5 설계 검증 — 이진 체크리스트 11항목 (checklists/phase5_설계검증.md · 에신 V4.8)
 
-> V1 이 이 표를 채워 `_개발자료/_design/phase5_design_verify.md` 에 넣는다. 근거 없는 O 는 X. 배점·점수 없음 — **`docs/20` §5-2 가 단일 출처**(항목 정의·판정 방법 전문). SKILL.md §5 는 같은 12항목의 요약. 판정 애매한 항목(3·5·6·7·11·12)은 `docs/20` §5-2 「판정 방법」①~⑥ 그대로 적용.
+> V1 이 이 표를 채워 `_개발자료/_design/phase5_design_verify.md` 에 넣는다. 근거 없는 O 는 X. 배점·점수 없음 — **`docs/20` §5-2 가 단일 출처**(항목 정의·판정 방법 전문). SKILL.md §5 는 같은 11항목의 요약. 통합 항목(1·2·10)은 하위 확인을 각각 O/X 로 기록하고 하나라도 X 면 그 항목은 X — 반려 재확인은 X 난 하위만. ★ 표시(7·8·9·10)는 안전·부품 항목 — 반려 보고 때 맨 위에 먼저 보여준다.
 
-| # | 항목 | O/X | 근거(plan.md §번호 / SVG 노드) |
-|:-:|---|:-:|---|
-| 1 | 7대 구성요소(페르소나·목표·LLM·지식베이스·도구·안전 체계·자율 루프)가 plan.md 에 전부 명시됐는가 | | |
-| 2 | 관계도에 7대 구성요소가 전부 노드로 존재하는가 | | |
-| 3 | 흐름도가 시작→종료까지 끊긴 경로 없이 연결되는가 | | |
-| 4 | 관계도에 붕 뜬(어느 화살표에도 연결 안 된) 구성요소가 없는가 | | |
-| 5 | plan.md 각 항목이 목표서(mbo) 승인 내용과 일치하는가 | | |
-| 6 | BOM 에 🔴(걸러냄) 부품이 남아있지 않은가 | | |
-| 7 | BOM 부품에 라이선스 미상·금지 라이선스가 없는가 | | |
-| 8 | plan.md 에 실패 모드(에러·한계 상황) 정의가 있는가 | | |
-| 9 | BOM 각 부품이 7대 구성요소 중 최소 하나에 매핑되는가 | | |
-| 10 | 트랙(웹사이트형/데스크톱형)·규모(S/M/L) 결정이 plan §1 좌표에 명시됐는가 | | |
-| 11 | 관계도·흐름도 SVG 가 plan.md 최신 버전과 절 번호 1:1 로 대응하는가 | | |
-| 12 | plan.md 12개 요구 항목·최대 29개 확인할 것 문답에 빈칸이 없는가 | | |
+| # | 항목 | 하위 확인 | O/X | 근거(plan.md §번호 / SVG 노드 / bom.md / 목표서 — 항목 3 대조용) |
+|:-:|---|---|:-:|---|
+| 1 | 7대 구성요소가 plan.md·관계도·BOM 세 곳에 모두 대응하는가 | (a) plan.md 명시 | | |
+| | | (b) 관계도 노드 존재 | | |
+| | | (c) BOM 매핑 | | |
+| 2 | 흐름도가 시작→종료까지 끊김 없이 연결되고, 관계도에 고립된 구성요소가 없는가 | (a) 흐름 끊김 없음 | | |
+| | | (b) 고립 노드 없음 | | |
+| 3 | plan.md 핵심값이 승인된 목표서(mbo)와 일치하는가 | — | | |
+| 4 | 요구 항목마다 plan.md 어느 절에 반영됐는지 대응되고, 빈칸·템플릿 문구가 없는가 | — | | |
+| 5 | 완료 기준이 측정 가능한 값(수치·비율·예/아니오 중 하나)으로 적혀 있는가 | — | | |
+| 6 | plan.md 에 적힌 화면 구성 방향이 사용자층·구동방식과 모순되지 않는가 (S 규모는 화면 부분 생략 가능) | — | | |
+| 7 ★ | 안전 체계 값이 실제 수치·정책으로 채워졌는가(비용·종료·보안·도메인 가드) | — | | |
+| 8 ★ | 도구마다 허용 동작이 정해졌고, 되돌릴 수 없는 작업 앞에 승인 지점이 있는가(읽기 전용뿐이면 자동 O) | — | | |
+| 9 ★ | 실패 모드 3종(도구·LLM·프롬프트 인젝션)이 구체적으로 정의됐는가(외부 입력 없으면 인젝션 하위 자동 O) | — | | |
+| 10 ★ | BOM 에 🔴 부품이 재혼입되지 않았고, 라이선스가 금지 목록에 해당하지 않는가 | (a) 🔴 재혼입 없음 | | |
+| | | (b) 라이선스(카피레프트는 조건부 O) | | |
+| 11 | 관계도·흐름도 SVG 가 plan.md 최신 버전과 절 번호 1:1 로 대응하는가(설계 내부 일관성만, Phase 6 마감에 재확정) | — | | |
 
-**판정**: 전항 O → PASS(Phase 6 진입). X 1개 이상 → FAIL. 반려는 그 항목만 작성자가 고친 뒤 V1 에게 "소거됨/잔존" 이진 재확인(전항 재검토·재점수 없음).
+**판정**: 전항 O → PASS(Phase 6 진입). X 1개 이상 → FAIL. 반려는 그 항목(통합 항목은 X 난 하위만)만 작성자가 고친 뒤 V1 에게 "소거됨/잔존" 이진 재확인(전항 재검토·재점수 없음).
+
+**첫 실전 1건 시범 적용 후 판정 문구를 보정한다** — 이번 개정은 실사용 0건 상태에서 나온 것이므로, 이 체크리스트로 첫 에이전트를 검증한 결과(판정 애매했던 항목·문구)를 CHANGELOG V4.8 항목에 덧붙여 보정한다.

diff --git a/에신-llm-dependent-agent-create/templates/양식/plan.md b/에신-llm-dependent-agent-create/templates/양식/plan.md
@@ -24,10 +24,10 @@ Claude Code CLI(작업·1차 검증) → Codex CLI(2차 검증·폴백). API 키
 ### 📘 지식베이스
 ① 직접 주입 `app/skills/*.md`: {{규칙 파일 목록}} · ② RAG `vault/`: {{투입 자료}} · ③ API: {{있으면}} · ④ MCP: {{있으면 / 해당 없음}} · 메모리(작업 지식): `state.json` {{무엇을 누적}}
 ### 🔧 도구
-| 도구 | 용도 | 구현 | AI 개입 |
-|---|---|---|---|
-| {{코드 계산}} | {{}} | `{{모듈}}` | 없음(결정론) |
-| {{}} | | | |
+| 도구 | 용도 | 구현 | AI 개입 | 허용 동작(읽기·쓰기·삭제·외부 전송) | 비가역 작업 승인 지점 |
+|---|---|---|---|---|---|
+| {{코드 계산}} | {{}} | `{{모듈}}` | 없음(결정론) | {{읽기}} | {{해당 없음 — 읽기 전용}} |
+| {{}} | | | | | |
 ### 🛡 안전 체계 (코드가 강제)
 - 비용: 1회 한도 {{}} · 월 누적 한도 {{}} (구독 CLI 만이면 해당 없음 명시) · 종료: {{루프 상한 N회·M분}} · 실패 시 처리: {{재시도/사람 확인/중단}}
 - 보안: 개인정보 여부 {{있음/없음}}, 가명화 대상 {{}}, 127.0.0.1, API 키 0 · 보관 기간: {{}}
@@ -39,7 +39,7 @@ Claude Code CLI(작업·1차 검증) → Codex CLI(2차 검증·폴백). API 키
 동시성·재시도·재개 정책(조건부, 반복 실행일 때만): {{동시 처리 건수}} · 재시도 {{N회}} · 재개 {{처음부터/멈춘 자리부터}}
 
 ## 3. 메타
-분류 {{}} · 사용자 층 {{}} · 모드 단일 · 발굴 경로 {{}} · 구동 방식 {{}} · 규모 {{}} · OS Windows
+분류 {{}} · 사용자 층 {{}} · 모드 단일 · 발굴 경로 {{}} · 구동 방식 {{}} · 화면 구성 방향 {{S 규모는 "UI 없음"(SKILL.md 규모 정의) 또는 "고정표 그대로" 표기 가능 — 그 외는 사용자층·구동방식과 어떻게 맞는지 한 줄}} · 규모 {{}} · OS Windows
 
 ## 3b. 입력 · 출력 (별도 5, docs/05 §8·§9)
 - 입력 내용: {{}} · 입력 형식: {{자유 서술/정해진 양식/파일 첨부}}
@@ -49,12 +49,19 @@ Claude Code CLI(작업·1차 검증) → Codex CLI(2차 검증·폴백). API 키
 {{파일 형식·위치·열어 보는 프로그램·후처리}}
 
 ## 4b. 검증 계약
-제품 내부 자가 점검(예: 루브릭 점수)은 **제품 품질 루프**. 설계 적합성 판정은 Phase 5 V1 의 이진 12항목만, 출하 판정은 Phase 7 V1·V2 의 7-5 채점만.
+제품 내부 자가 점검(예: 루브릭 점수)은 **제품 품질 루프**. 설계 적합성 판정은 Phase 5 V1 의 이진 11항목만, 출하 판정은 Phase 7 V1·V2 의 7-5 채점만.
 
 ## 5. 실패 모드 (7요소별 — 무엇이 어떻게 실패하고 코드가 어떻게 막나)
 | 요소 | 실패 | 대응 |
 |---|---|---|
 | 🎭 | {{}} | {{}} |
 | … | | |
+
+**시스템 실패 모드 3종** (Phase 5 항목 9 판정용, `docs/20` §5-2 항목 9 참조)
+| 종류 | 대응 방침 |
+|---|---|
+| (a) 도구 실패 시 대응 | {{}} |
+| (b) LLM 실패 시 폴백 | {{}} |
+| (c) 외부 입력 속 이상한 지시(프롬프트 인젝션) 처리 방침 | {{외부 입력을 받지 않으면 "해당 없음"}} |
 
 ## 6. 잠정 부품 후보 → Phase 3·4 에서 확정 (bom.md)

diff --git a/에신-llm-dependent-agent-create/checklists/phase_gates.md b/에신-llm-dependent-agent-create/checklists/phase_gates.md
@@ -10,7 +10,7 @@
 | 2.5 → 3 (경로 B만) | `_개발자료/_design/phase_2.5_research_{날짜}.md` + PO 게이트 통과 | |
 | 3 → 4 | 발굴 카탈로그 또는 원자재 입고 카드 · 라이선스 판정 | |
 | 4 → 5 | `_개발자료/_design/bom.md`(5분류, 🔴 분리) · `SOURCE_REUSE_LOG.md` · `THIRD_PARTY_NOTICES.md` | 🔴 항목이 🟢에 없음 |
-| 5 → 6 | plan.md 확정본 · `_개발자료/_design/phase5_design_verify.md`(V1 설계 검증 — 이진 12항목 전항 O) | `checklists/phase5_설계검증.md` 전항 O |
+| 5 → 6 | plan.md 확정본 · `_개발자료/_design/phase5_design_verify.md`(V1 설계 검증 — 이진 11항목 전항 O) | `checklists/phase5_설계검증.md` 전항 O |
 | 6 → 6b | 폴더 표준 전부 존재(app/ · _개발자료/ · 루트 문서 5) · `app/skills/*.md` · `app/uicontract.py` · `_개발자료/tests/` 시험 하한(S 20 / M 60 / L 150) 통과 · GUI 트랙이면 `app/ui/index.html` 이 뼈대 복사본 + `_개발자료/_qc/smoke_ui.py` SMOKE PASS(고정표 자기 대조) · `시작.bat` 실기동 OK · **아키텍처 파일(SVG·plan) 구현 기준으로 갱신** · `기획안_구현_대조표.md`(적힌 함수 전부 `test_documented_function_exists_and_is_called` 통과) · `verify_2nd` 호출부 존재 | `pytest -q` · `시작.bat` |
 | 6b → 7 | 시운전 1회 기록(약식·샘플 모드) — 사용자 여정 완주 증거(산출물 파일·state) | 재실행은 여정이 끊겼을 때만 |
 | 7 → 8 | `_개발자료/_qc/pre_verify_snapshot/` · `v1_report.md`(PASS 또는 결함 전부 소거) · L 이면 `v2_report.md` · GUI 이면 `v1_gui_대조표.md`(X 0) | 7-5 합격선 |

diff --git a/에신-llm-dependent-agent-create/docs/30_조립_공통.md b/에신-llm-dependent-agent-create/docs/30_조립_공통.md
@@ -82,7 +82,7 @@ LLM(두뇌) 의존형 에이전트를 만든다
 
 | 층위 | 항목 | 다루는 시점 | 역할 |
 |---|---|---|---|
-| **12개 요구 항목·최대 29개 확인할 것** (Phase 1, 정의는 `docs/05`, 요약은 `docs/10` 「발굴 항목」 표 참조) | 목표·페르소나·LLM·지식베이스·도구·안전 체계·자율 루프 + 입력·출력·사용자 층·이름·유형 분류 → 7대 구성요소 + 별도 5로 정렬 | 10라운드(하한) + α 문답 단계 | "이 에이전트는 무엇인가" 외부 식별·계약 |
+| **12개 요구 항목·최대 29개 확인할 것** (Phase 1, 정의는 `docs/05`, 요약은 `docs/10` 「발굴 항목」 표 참조) | 목표·페르소나·LLM·지식베이스·도구·안전 체계·자율 루프 + 입력·출력·사용자 층·이름·유형 분류 → 7대 구성요소 + 별도 5로 정렬 | 자료 우선 절차 + 라운드 구간표(틀, 하한 아님) 문답 단계 | "이 에이전트는 무엇인가" 외부 식별·계약 |
 | **구현 7요소** (Phase 6a, 아래) | 페르소나·LLM·목표·지식베이스·도구·안전 체계·자율 루프 | 실행부 조립 단계 | "이 에이전트는 어떻게 작동하는가" 내부 구현 |
 
 겹치는 항목(페르소나·목표·LLM·지식베이스·도구·안전 체계[종료·보안·비용]·루프)은 같은 개념의 다른 시점 표현 — Phase 1에서는 PO에게 묻고, Phase 6a에서는 코드로 구현.
